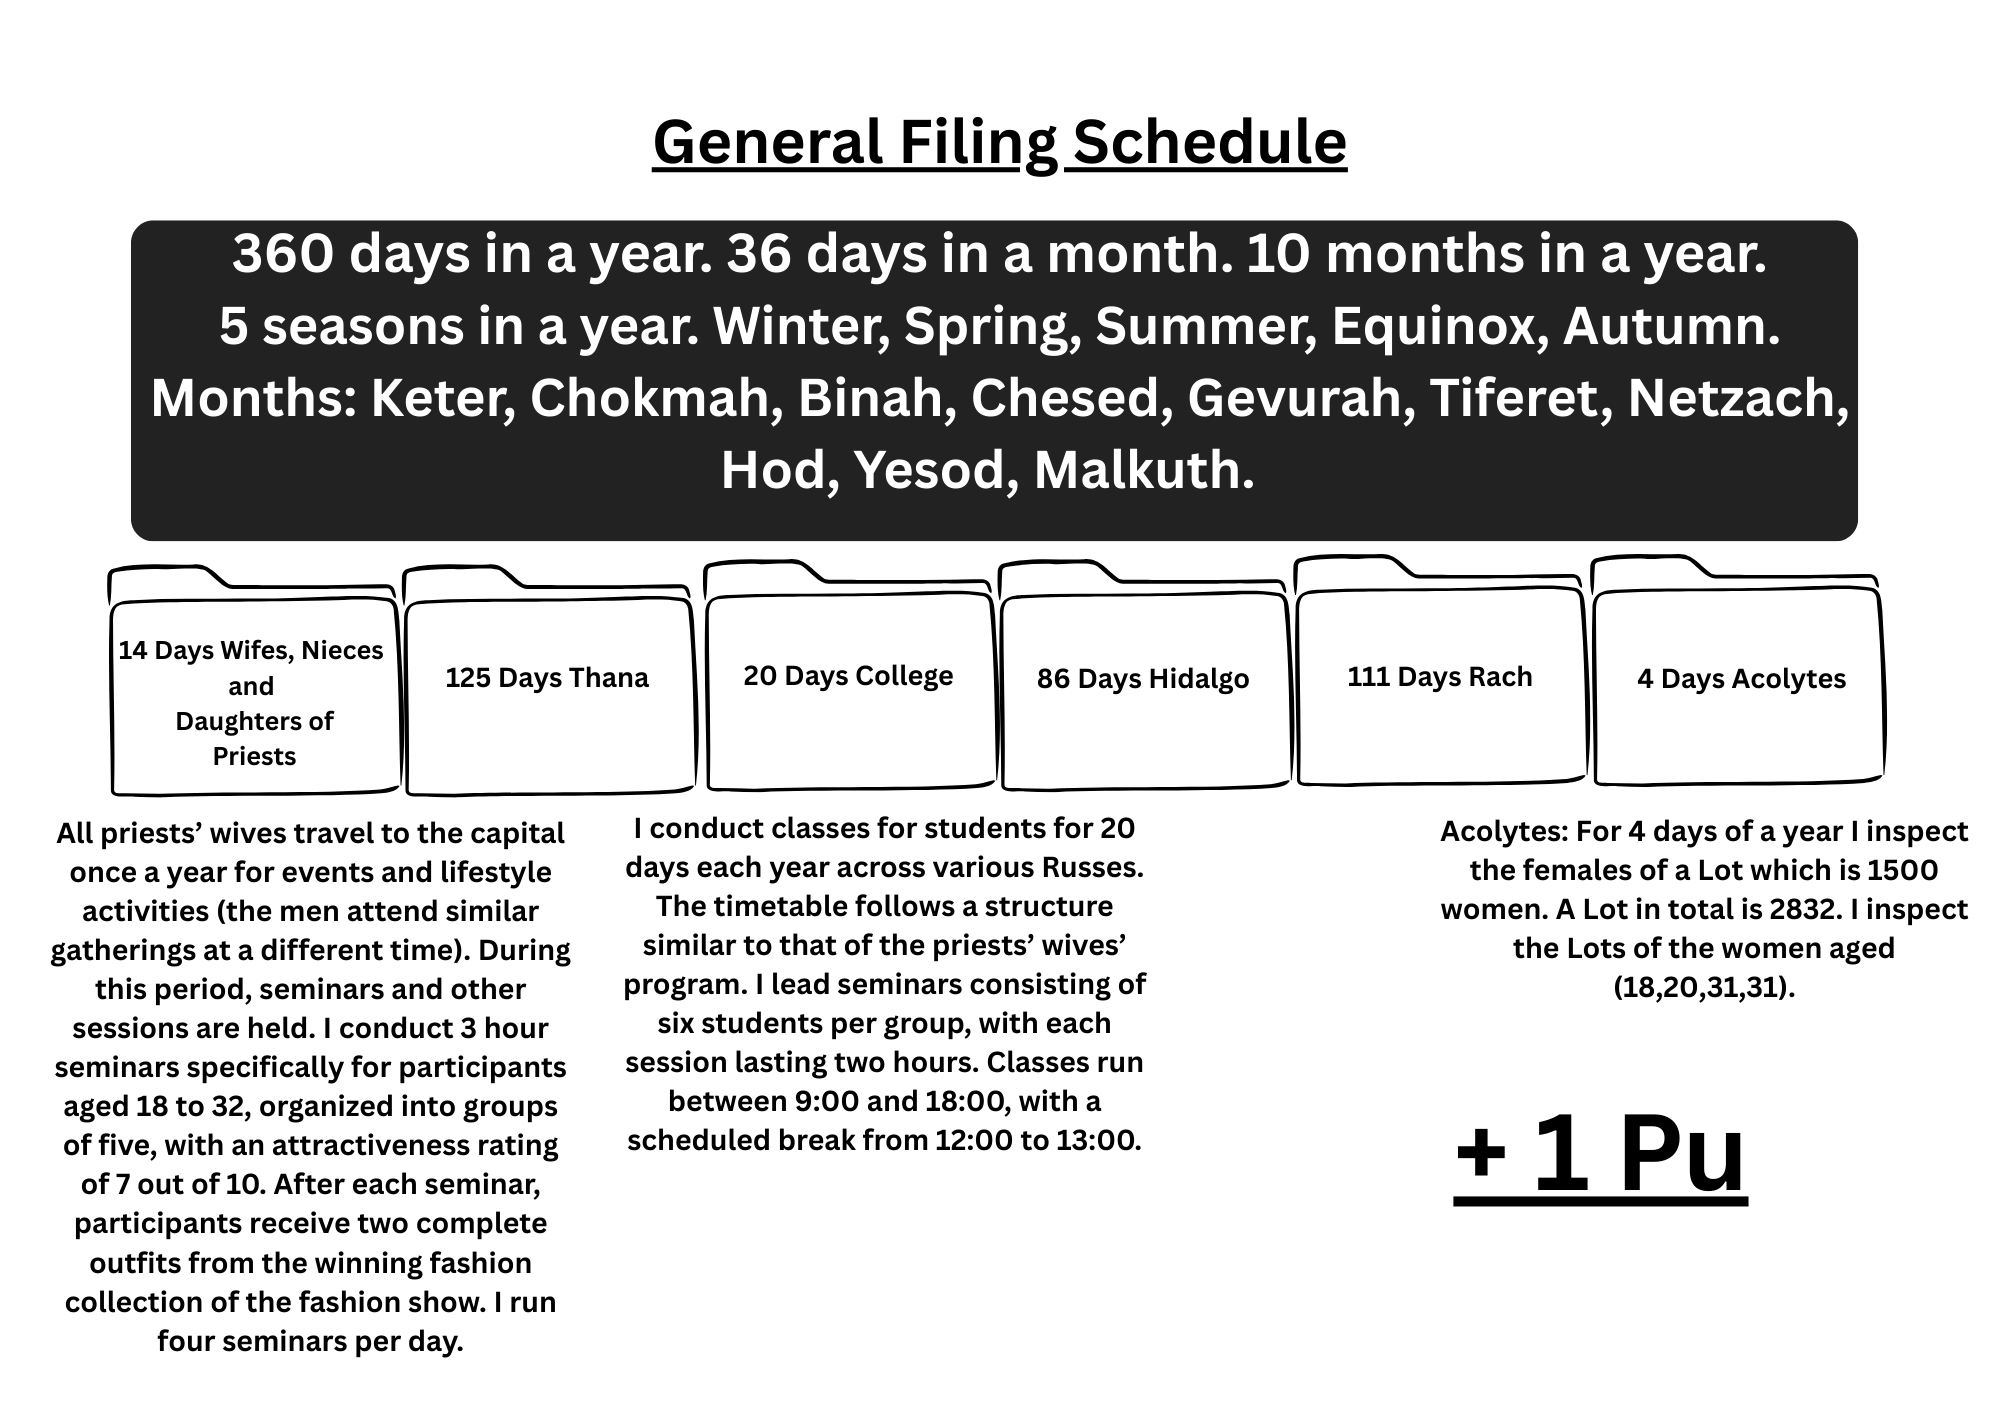
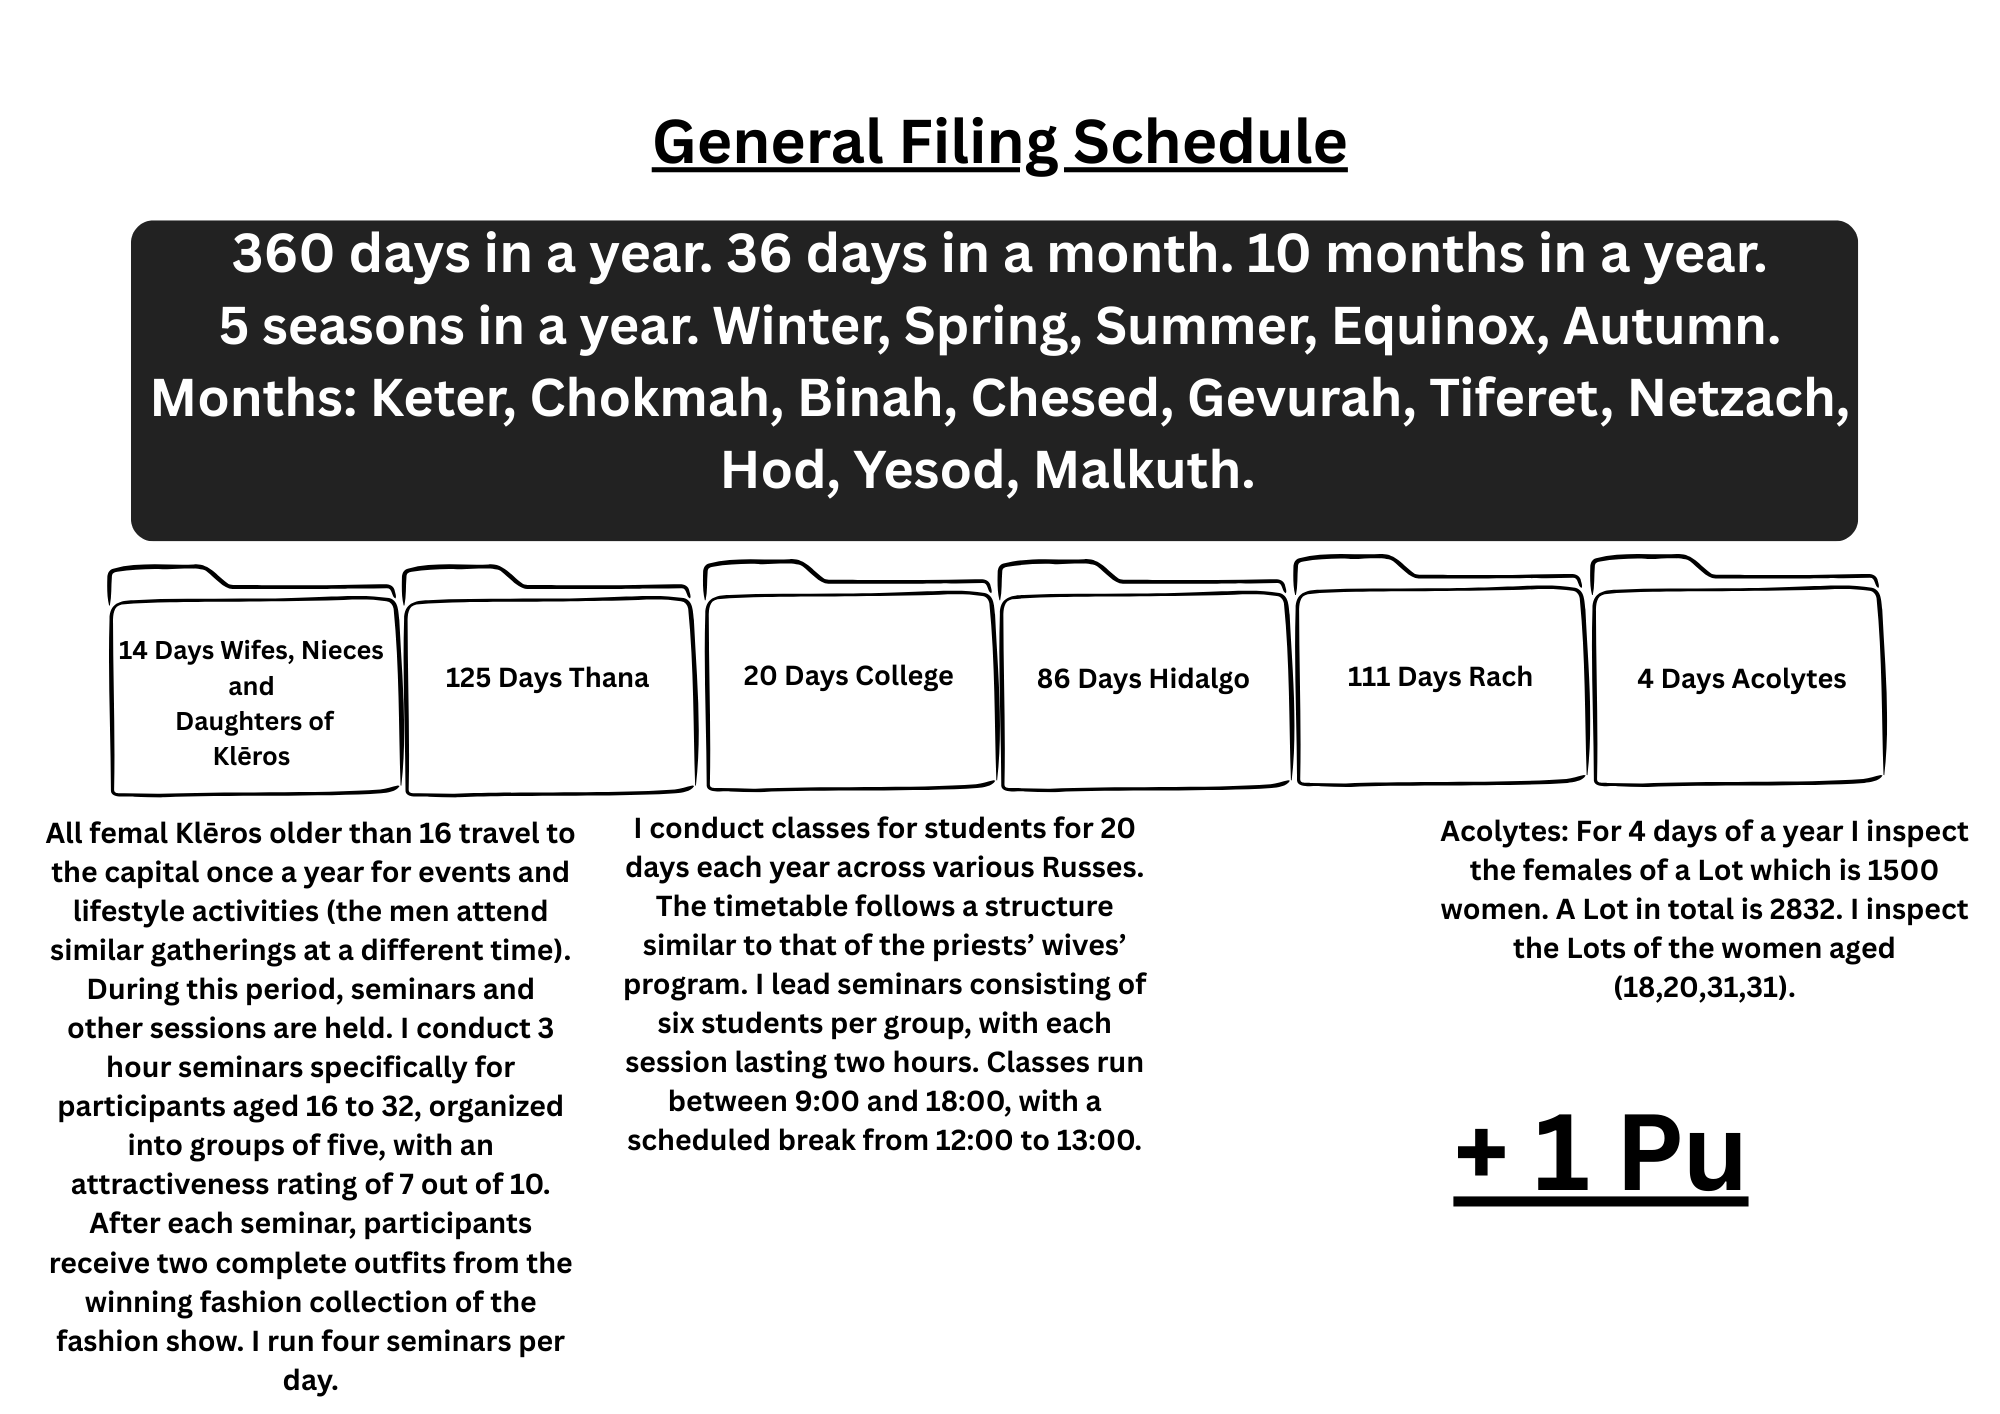
Starting the 6th of March day changes.

Changed region(s): [[0.031, 0.529, 0.279, 0.9958]]

diff --git a/src/App.js b/src/App.js
@@ -4170,7 +4170,7 @@ useEffect(() => {
   {
     id: 3,
     title: "Cause: Priesthood",
-    content: " The priesthood of the Melchizedek has 6 branches together they oversee the whole globe. Current priests will be recruited and new priests will be made across all religions. Priests live in relic cities overseen by the Rabat of the Relics. Priests are tasked with purifying these cities starting again from the holiest sites. The 6 branches are the Cetiya of the Upasikayo(lamp), Rabat of the Relic (Relic Cities), Oikos of the Oikodrome(Arx and routes), the Synagogue of the Sefer(Rus), the Sanctuary of the Sea (Sea Village), the Haveli of the Hari(KT HAM), the Temple of the Tao(Thana and Hidalgo) . "
+    content: " The priesthood of the Melchizedek has 6 branches together they oversee the whole globe. Current Klēroi from all religions will be recruited and new Klēroi will be made as seen fit and be given the official status Klēros. Klēroi  live in relic cities overseen by the Rabat of the Relics. Klēroi are tasked with purifying these cities starting again from the holiest sites. The 6 branches are the Cetiya of the Upasikayo(lamp), Rabat of the Relic (Relic Cities), Oikos of the Oikodrome(Arx and routes), the Synagogue of the Sefer(Rus), the Sanctuary of the Sea (Sea Village), the Haveli of the Hari(KT HAM), the Temple of the Tao(Thana and Hidalgo) . "
   }, 
   {
     id: 4,
@@ -4189,37 +4189,37 @@ useEffect(() => {
   {
     id: 0,
     title: "Produce",
-    summary: "Produce is the most important part of a civilization, I have therefore decided to completely integrate produce to be a unifier controlled from the top to ensure stability.  ",
+    summary: "Indentured, Acolytes",
     details:
-      "Planting: 2, Animals: 2 and priests, Processing: 2, Tending: Common, Reaping: Priests, Packaging: 2",
+      "",
   },
   {
     id: 1,
     title: "Manufacturing",
-    summary: "Manufcaturing is a vital part of maintaining or sustaining a functional society. I have decided to divide the work by size of product.",
+    summary: "Routes, PPEA",
     details:
-      "Mining: Commoners, Refining: priests, Small: 2, Medium: Common, Large: Common, Gigantic(Colossal): 2 and Priests ",
+      "",
   },
   {
     id: 2,
     title: "Services",
-    summary: "Modern society treats services as if it is the bread and butter. In this new paradigm services will be split into 6 areas with key sectors such as transport, infrastructure, leadership and education being either the work of senior officials or automated.",
+    summary: "Towns: Routes: Relics: PPEA",
     details:
-      "Available areas are medicine, commerce, hospitality, app development, domestics and utilities.",
+      "",
   },
   {
     id: 3,
     title: "Entertainment",
-    summary: "Entertainment will be open source with everybody having access to a studio, theatre etc at one on the 12 towns in their locality. ",
+    summary: "",
     details:
-      "The available industries with the entertainment industry are TV and Film, Music, Sports, Games, Live Entertainment and Publishing and Print. Most forms of viewable entertainment will still be around in some form although religious values will be applied. Entertainment usues a duality principle with the towns and the routes having different media and celebrities.",
+      "",
   },
   {
     id: 4,
     title: "Construction",
-    summary: "Construction is mandatory and everybody of able body will be required to take part. Each settlement and its cities have ben pre-designed and therefore all construction is government owned.",
+    summary: "Route, PPEA",
     details:
-      "There will be assistance in the form of Evangelions, everybody will have a mandated studio flat in a house, cohabitation will no longer be allowed, although people will be moved to live next to their partner with divorce prohibited. ",
+      "",
   }
 ];
 
@@ -5523,7 +5523,7 @@ function DualCarouselCards() {
 
   const carousels = {
     one: [
-      { title: "Priest", text: "Priests are men that have chosen to dedicate their lives to religion, study and research. New priests are required to gain the highest marks in the 89 (top 0.1%). Priests work within the Rabt, the Oikos and the Synagogue.", img: "/images/classes/priest.png" },
+      { title: "Klēros ", text: "Priests are men that have chosen to dedicate their lives to religion, study and research. New priests are required to gain the highest marks in the 89 (top 0.1%). Priests work within the Rabt, the Oikos and the Synagogue.", img: "/images/classes/priest.png" },
       { title: "Polítēs(Πολίτης)", text: "Polītai(Πολῖται) are thos who performed well enough in the 89 test and have been chosen to be employed to live in the semi-autonomous Emporiums. All acolytes can apply to be a Polítēs. ", img: "/images/classes/emporati.png"},
       { title: "Deacons", text: "Deacons are men who have distinguished themselves in the 89 and chosen to reside in the Rus, serving the Priesthood of the Melchizedek. They carry out the same duties as the PMSEC but enjoy a higher standard of living. In addition to their secular responsibilities, deacons are entrusted with religious obligations, reinforcing their role within the Priesthood.", img: "/images/classes/priest.png" },
       { title: "Acolyte", text: "Acolytes are the average man who dedicates their life to the Oikos of the Oikodrome and the EPIC MSHN.", img: "/images/classes/acolyte.png" },
